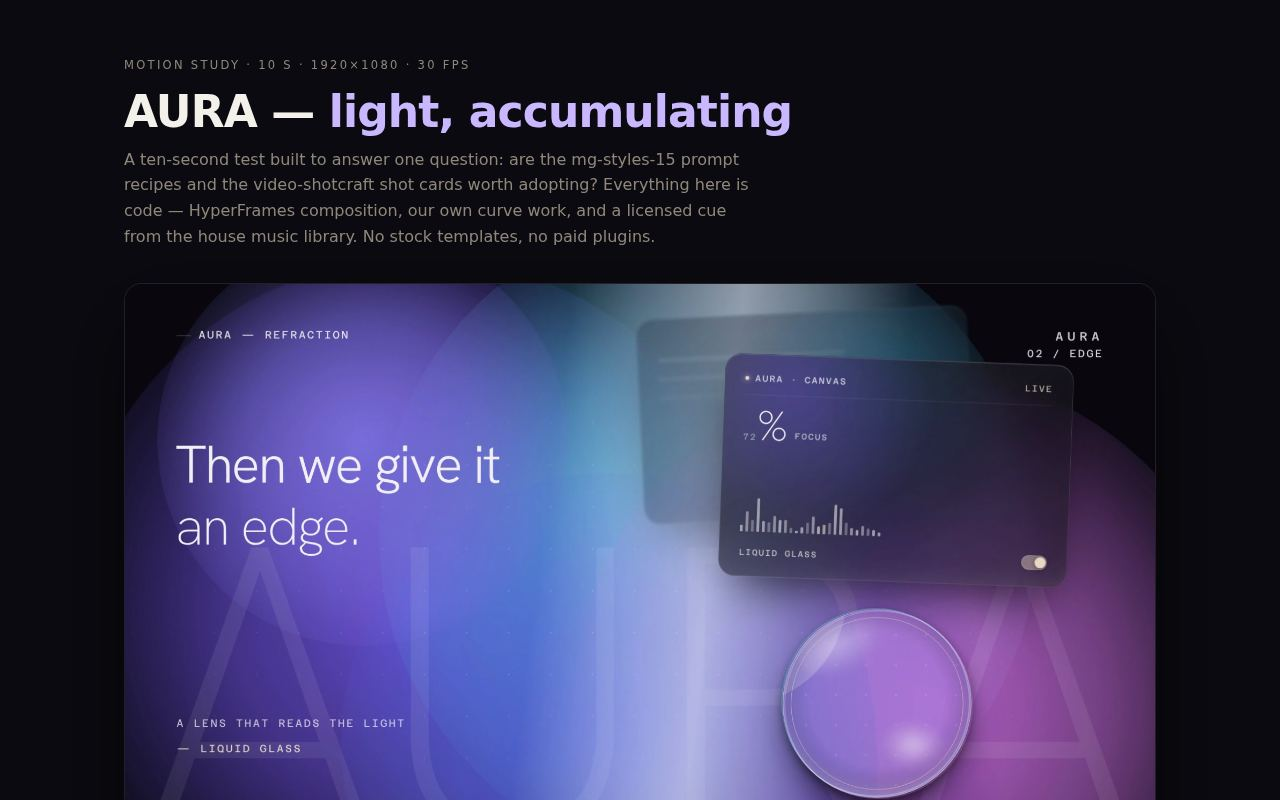
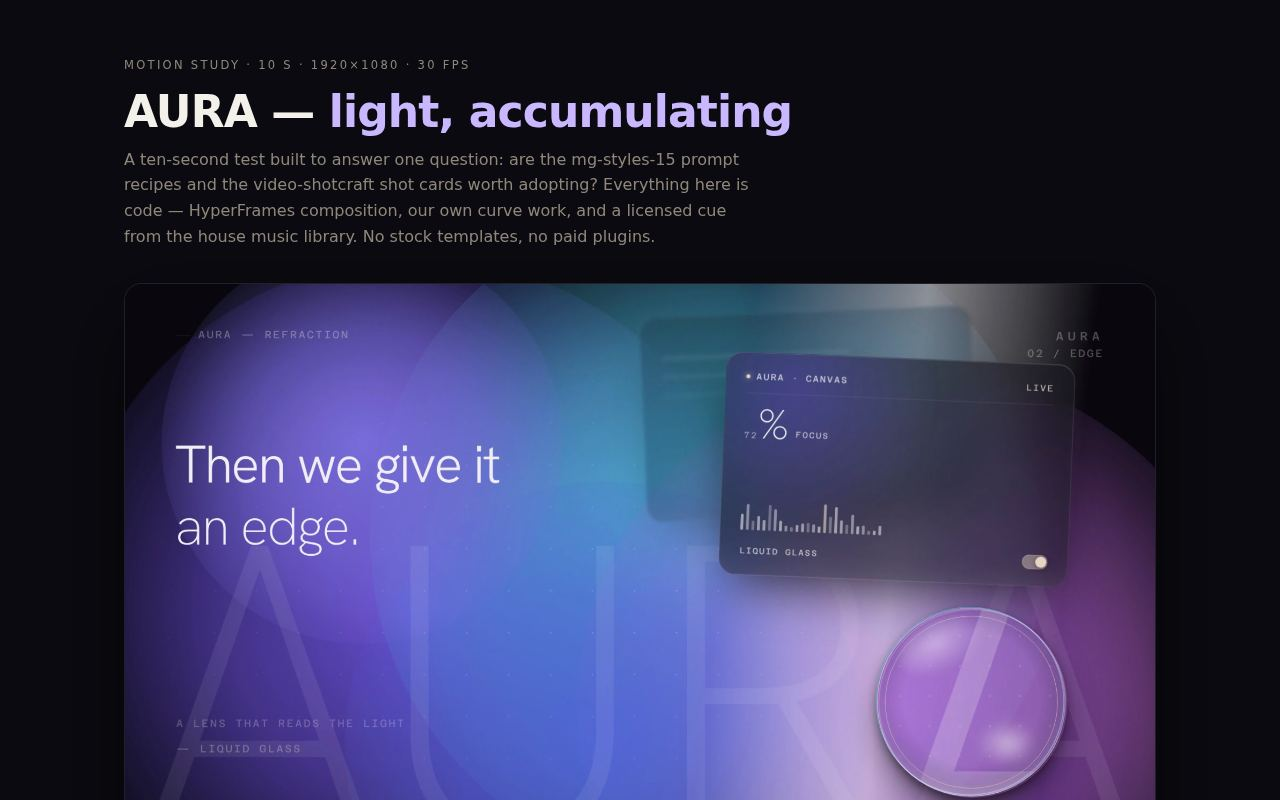
publish

diff --git a/index.html b/index.html
@@ -14,4 +14,4 @@ nav{display:flex;flex-wrap:wrap;gap:8px}nav a{color:var(--fg);text-decoration:no
 nav a:hover{border-color:var(--acc);color:var(--acc)}nav a.repo{color:var(--mute)}footer{color:var(--mute);text-align:center;padding:0 16px 40px;font-size:13px}
 </style></head><body>
 <header><h1>Hermes<br>Gallery</h1><p>Everything Hermes has shipped, with live links. Rebuilt automatically from the project registry every hour, so it's always current.</p></header>
-<main><article><a class="shot" href="https://nd96-8d938128.nip.io/host"><img loading="lazy" src="thumbs/nd96.jpg" alt="ND96 — National Day game (Asir) screenshot"></a><div class="meta"><h2>ND96 — National Day game (Asir)</h2><p>Asir driving update LIVE, deployed 985675f: 7.27 km circuit (2.33x), continuous ribbon presentation, responsive solo TAP/HOLD, angle-sensitive wall losses and stronger boost. Map art/approved car preserved; scores/history and join code 6520 retained. Three-map cold/warm starts, nine transitions and failure/timeout/retry/cancel/refresh coverage verified. Human feel and hardware rehearsal remain unverified.</p><nav><a href="https://nd96-8d938128.nip.io/host">Host ↗</a><a href="https://nd96-8d938128.nip.io/play">Play ↗</a></nav></div></article><article><a class="shot" href="https://beginners-photographs-comfortable-eyes.trycloudflare.com/ar"><img loading="lazy" src="thumbs/itlala.jpg" alt="إطلالة Itlala — AI personal shopper screenshot"></a><div class="meta"><h2>إطلالة Itlala — AI personal shopper</h2><p>Phone UI pass 2 LIVE (2026-10-21 PM): flat-lay is a scrollable stack (every piece visible), outfit sheet shows the whole figure, no read-more, no links in the chat, abaya can never be answered with a dress, palette measured from the garments (5 looks), redone phone composer, sheet motion.</p><nav><a href="https://beginners-photographs-comfortable-eyes.trycloudflare.com/ar">Demo (tunnel, follows rotation) ↗</a><a class="repo" href="https://github.com/Mkj-ai/ai-personal-shopper">repo</a></nav></div></article><article><a class="shot" href="https://hermesalfredguy.github.io/aura-motion-study/"><img loading="lazy" src="thumbs/aura-motion-study.jpg" alt="AURA — 10 s motion study testing mg-styles-15 + video-shotcraft screenshot"></a><div class="meta"><h2>AURA — 10 s motion study testing mg-styles-15 + video-shotcraft</h2><p>delivered — motion gate 3.14, contrast pass (5 -&gt; 1 warning, intended fade)</p><nav><a href="https://hermesalfredguy.github.io/aura-motion-study/">Film page ↗</a><a class="repo" href="https://github.com/HermesAlfredGuy/aura-motion-study">repo</a></nav></div></article><article><a class="shot" href="https://hermesalfredguy.github.io/afterlight-20261018/"><img loading="lazy" src="thumbs/afterlight.jpg" alt="Afterlight — DeepSeek Creative Lab screenshot"></a><div class="meta"><h2>Afterlight — DeepSeek Creative Lab</h2><p>Paused by the owner (2026-10-20). Pass-3 graphics work stopped part-way; edits left uncommitted in the workspace.</p><nav><a href="https://hermesalfredguy.github.io/afterlight-20261018/">Site ↗</a><a class="repo" href="https://github.com/HermesAlfredGuy/afterlight-20261018">repo</a></nav></div></article><article><a class="shot" href="https://hermesalfredguy.github.io/dallah/"><img loading="lazy" src="thumbs/dallah-img2threejs.jpg" alt="Brass dallah — one photograph to procedural Three.js screenshot"></a><div class="meta"><h2>Brass dallah — one photograph to procedural Three.js</h2><p>delivered — 6 correction passes, structural pass unlocked, generator bugs fixed</p><nav><a href="https://hermesalfredguy.github.io/dallah/">Live model ↗</a><a class="repo" href="https://github.com/HermesAlfredGuy/dallah">repo</a></nav></div></article><article><a class="shot" href="https://hermesalfredguy.github.io/ember-run/"><img loading="lazy" src="thumbs/ember-run.jpg" alt="Ember Run — browser game screenshot"></a><div class="meta"><h2>Ember Run — browser game</h2><p>Live demo.</p><nav><a href="https://hermesalfredguy.github.io/ember-run/">Play ↗</a><a class="repo" href="https://github.com/HermesAlfredGuy/ember-run">repo</a></nav></div></article><article><a class="shot" href="https://hermesalfredguy.github.io/hermes-studio/"><img loading="lazy" src="thumbs/studio.jpg" alt="Hermes Studio — tooling &amp; kits screenshot"></a><div class="meta"><h2>Hermes Studio — tooling &amp; kits</h2><p>Kits: web-editorial, game-three, motion (brand-opener, anthem). New: one-take voiceover + beat warp (anthem motion 5.95 vs Oddfellows 6.1), motion gate, a11y/contrast gate in web QA. Hermes film tests: 6/10 → 6.5/10. Motion retrofit 20 Oct: full motion forced always (no OS reduced-motion checks, no toggle), live + QA ok.</p><nav><a href="https://hermesalfredguy.github.io/hermes-studio/">Studio site ↗</a><a href="https://hermesalfredguy.github.io/tidework-studio/">TIDEWORK site ↗</a><a href="https://hermesalfredguy.github.io/ember-run/">Ember Run game ↗</a><a class="repo" href="https://github.com/HermesAlfredGuy/hermes-studio">repo</a></nav></div></article><article><a class="shot" href="https://hermesalfredguy.github.io/ledgerline-launch-clip/"><img loading="lazy" src="thumbs/ledgerline-launch-clip.jpg" alt="Ledgerline — 20 s square launch clip, drawn in code screenshot"></a><div class="meta"><h2>Ledgerline — 20 s square launch clip, drawn in code</h2><p>2026-10-22: remade from the motion-dead original. Motion 0.61 -&gt; 5.00 median (gate 2.5), 19 dead seconds -&gt; 0, -14.1 LUFS, 54 named techniques in TIMELINE.md, page with a 37-beat transcript. REVIEW GATE FAILED: four independent rounds scored 8.0 / 7.7 / 8.1 / 7.6 (gate 8.5), zero blockers; round budget exhausted. Open: the sheet-to-cards change is a cut not a fold, and the 8.1 s swap is off the beat.</p><nav><a href="https://hermesalfredguy.github.io/ledgerline-launch-clip/">Proof page ↗</a><a class="repo" href="https://github.com/HermesAlfredGuy/ledgerline-launch-clip">repo</a></nav></div></article><article><a class="shot" href="http://192.168.100.120:9520/host"><img loading="lazy" src="thumbs/majlis-party.jpg" alt="Majlis Party v2 (مجلس بارتي) — standalone projector party game, two teams screenshot"></a><div class="meta"><h2>Majlis Party v2 (مجلس بارتي) — standalone projector party game, two teams</h2><p>v2 live; independent design review not passed after 4 rounds (6.5, 5.5, 5.0, 5.5 vs 8.5 bar); rounds exhausted</p><nav><a href="http://192.168.100.120:9520/host">Live ↗</a><a href="https://ethernet-temperatures-follow-oak.trycloudflare.com/host">Live ↗</a><a class="repo" href="https://github.com/HermesAlfredGuy/majlis-party">repo</a></nav></div></article><article><a class="shot" href="https://hermesalfredguy.github.io/qahwa-lab/"><img loading="lazy" src="thumbs/qahwa-lab.jpg" alt="Qahwa Lab — Khawlani coffee, roasted in Al Khobar screenshot"></a><div class="meta"><h2>Qahwa Lab — Khawlani coffee, roasted in Al Khobar</h2><p>Live (2026-10-22): scroll-roasts a procedural 3D Khawlani bean through a real roast log (200 °C charge → 212 °C drop), contour-map provenance section, hand-drawn roast profile, swipeable lot rail. Mobile-first.</p><nav><a href="https://hermesalfredguy.github.io/qahwa-lab/">GitHub Pages ↗</a><a class="repo" href="https://github.com/HermesAlfredGuy/qahwa-lab">repo</a></nav></div></article><article><a class="shot" href="https://hermesalfredguy.github.io/saqr/"><img loading="lazy" src="thumbs/saqr.jpg" alt="SAQR — falcon over Asir screenshot"></a><div class="meta"><h2>SAQR — falcon over Asir</h2><p>Shipped 2026-10-22: one-thumb 3D flight game over the Asir escarpment at last light — thermal riding, near-miss bonuses, real rock collisions. Verified on a 390×844 phone viewport, 27.8 s gameplay capture with the game&#x27;s own audio.</p><nav><a href="https://hermesalfredguy.github.io/saqr/">Live ↗</a><a class="repo" href="https://github.com/HermesAlfredGuy/saqr">repo</a></nav></div></article><article><a class="shot" href="https://hermesalfredguy.github.io/softmax-reward-model-music-video/?video=1"><img loading="lazy" src="thumbs/softmax-music-video.jpg" alt="SOFTMAX — Reward Model, kinetic lyric music video screenshot"></a><div class="meta"><h2>SOFTMAX — Reward Model, kinetic lyric music video</h2><p>Delivered: complete 3:12 film, native 1920x1080 at 60 fps (11520 frames), 71 typographic cues. Preferred original recording preserved. Final export and public MP4 ranges verified; Telegram delivery 17453.</p><nav><a href="https://hermesalfredguy.github.io/softmax-reward-model-music-video/?video=1">Watch / download ↗</a><a class="repo" href="https://github.com/HermesAlfredGuy/softmax-reward-model-music-video">repo</a></nav></div></article><article><a class="shot" href="https://hermesalfredguy.github.io/sonde/"><img loading="lazy" src="thumbs/sonde.jpg" alt="Sonde — database agent for oil and gas screenshot"></a><div class="meta"><h2>Sonde — database agent for oil and gas</h2><p>live — disclosure section now carries a live procedural 3D core sample</p><nav><a href="https://hermesalfredguy.github.io/sonde/">Live ↗</a><a class="repo" href="https://github.com/HermesAlfredGuy/sonde">repo</a></nav></div></article><article><a class="shot" href="https://hermesalfredguy.github.io/handheld-oneshot-test/"><img loading="lazy" src="thumbs/handheld-oneshot-test.jpg" alt="TOCK &amp; friends — handheld launch-site test screenshot"></a><div class="meta"><h2>TOCK &amp; friends — handheld launch-site test</h2><p>4 one-shot pages (DeepSeek/MiniMax, raw/brief/auto-brief).</p><nav><a href="https://hermesalfredguy.github.io/handheld-oneshot-test/">Gallery ↗</a><a href="https://hermesalfredguy.github.io/handheld-oneshot-test/deepseek-auto/">TOCK ↗</a><a class="repo" href="https://github.com/HermesAlfredGuy/handheld-oneshot-test">repo</a></nav></div></article><article><a class="shot" href="https://hermesalfredguy.github.io/really-high-quality-animated/"><img loading="lazy" src="thumbs/little-lighthouse.jpg" alt="The Little Lighthouse — 50 s hand-inked cel film, drawn in code screenshot"></a><div class="meta"><h2>The Little Lighthouse — 50 s hand-inked cel film, drawn in code</h2><p>delivered — 4 independent review rounds, gate not passed (film 7/10 r4, page 8.0 r3)</p><nav><a href="https://hermesalfredguy.github.io/really-high-quality-animated/">Film page ↗</a><a class="repo" href="https://github.com/HermesAlfredGuy/really-high-quality-animated">repo</a></nav></div></article><article><a class="shot" href="https://hermesalfredguy.github.io/tidework-studio/"><img loading="lazy" src="thumbs/tidework-studio.jpg" alt="Tidework — brand studio site screenshot"></a><div class="meta"><h2>Tidework — brand studio site</h2><p>Live.</p><nav><a href="https://hermesalfredguy.github.io/tidework-studio/">Site ↗</a><a class="repo" href="https://github.com/HermesAlfredGuy/tidework-studio">repo</a></nav></div></article><article><a class="shot" href="https://hermesalfredguy.github.io/tomo-01/"><img loading="lazy" src="thumbs/tomo-01.jpg" alt="Tomo-01 — handheld launch site screenshot"></a><div class="meta"><h2>Tomo-01 — handheld launch site</h2><p>Live. Paper-catalogue launch page for a fictional two-screen handheld: bespoke Three.js device (hinge opens on scroll 0-113 deg, two live canvas LCDs), Pebble Garden playable in the page, opt-in synthesised sound, colour studio. Press loop 20s 16:9 + social cut 15s 9:16, both passing the film motion gate. studio-qa green (0 axe, 0 errors, 0 overflow, 0 small tap targets); mobile nav-clearance and anchor scroll-padding fixed after a rubric critique pass (7.1 -&gt; 7.7). Phone pass 2026-10-21: the fixed WebGL canvas now places the device in reserved document-flow bands solved from the measured rect, so nothing can sit under it; 0 text/device overlaps at 390x844 and 360x780, 0 tap targets under 44px, 0 body copy under 15px, playable console in one viewport, desktop layout unchanged (28/29 measured fields identical to the pre-change build).</p><nav><a href="https://hermesalfredguy.github.io/tomo-01/">Live site ↗</a><a class="repo" href="https://github.com/HermesAlfredGuy/tomo-01">repo</a></nav></div></article><article><a class="shot" href="https://hermesalfredguy.github.io/vesper-website-20261018/"><img loading="lazy" src="thumbs/vesper.jpg" alt="Vesper — DeepSeek Web Lab screenshot"></a><div class="meta"><h2>Vesper — DeepSeek Web Lab</h2><p>Site published; lamp object + film (pass 3).</p><nav><a href="https://hermesalfredguy.github.io/vesper-website-20261018/">Site ↗</a><a class="repo" href="https://github.com/HermesAlfredGuy/vesper-website-20261018">repo</a></nav></div></article><article><a class="shot" href="https://kayak-8d938128.nip.io/host"><img loading="lazy" src="thumbs/kayak-game.jpg" alt="Wadi Paddle — ND96 kayak race screenshot"></a><div class="meta"><h2>Wadi Paddle — ND96 kayak race</h2><p>Pass II «تجديف الوادي» live on the Oracle VM: verify event 55 OK, npm test 95/0, live round completed 15 Oct. Motion retrofit 20 Oct live: full motion forced always, no toggle, QA ok.</p><nav><a href="https://kayak-8d938128.nip.io/host">Host screen ↗</a><a href="https://kayak-8d938128.nip.io/play">Play (phone) ↗</a></nav></div></article></main><footer>Updated 2026-10-31 12:00 UTC</footer></body></html>
+<main><article><a class="shot" href="https://nd96-8d938128.nip.io/host"><img loading="lazy" src="thumbs/nd96.jpg" alt="ND96 — National Day game (Asir) screenshot"></a><div class="meta"><h2>ND96 — National Day game (Asir)</h2><p>Asir driving update LIVE, deployed 985675f: 7.27 km circuit (2.33x), continuous ribbon presentation, responsive solo TAP/HOLD, angle-sensitive wall losses and stronger boost. Map art/approved car preserved; scores/history and join code 6520 retained. Three-map cold/warm starts, nine transitions and failure/timeout/retry/cancel/refresh coverage verified. Human feel and hardware rehearsal remain unverified.</p><nav><a href="https://nd96-8d938128.nip.io/host">Host ↗</a><a href="https://nd96-8d938128.nip.io/play">Play ↗</a></nav></div></article><article><a class="shot" href="https://beginners-photographs-comfortable-eyes.trycloudflare.com/ar"><img loading="lazy" src="thumbs/itlala.jpg" alt="إطلالة Itlala — AI personal shopper screenshot"></a><div class="meta"><h2>إطلالة Itlala — AI personal shopper</h2><p>Phone UI pass 2 LIVE (2026-10-21 PM): flat-lay is a scrollable stack (every piece visible), outfit sheet shows the whole figure, no read-more, no links in the chat, abaya can never be answered with a dress, palette measured from the garments (5 looks), redone phone composer, sheet motion.</p><nav><a href="https://beginners-photographs-comfortable-eyes.trycloudflare.com/ar">Demo (tunnel, follows rotation) ↗</a><a class="repo" href="https://github.com/Mkj-ai/ai-personal-shopper">repo</a></nav></div></article><article><a class="shot" href="https://hermesalfredguy.github.io/aura-motion-study/"><img loading="lazy" src="thumbs/aura-motion-study.jpg" alt="AURA — 10 s motion study testing mg-styles-15 + video-shotcraft screenshot"></a><div class="meta"><h2>AURA — 10 s motion study testing mg-styles-15 + video-shotcraft</h2><p>delivered — motion gate 3.14, contrast pass (5 -&gt; 1 warning, intended fade)</p><nav><a href="https://hermesalfredguy.github.io/aura-motion-study/">Film page ↗</a><a class="repo" href="https://github.com/HermesAlfredGuy/aura-motion-study">repo</a></nav></div></article><article><a class="shot" href="https://hermesalfredguy.github.io/afterlight-20261018/"><img loading="lazy" src="thumbs/afterlight.jpg" alt="Afterlight — DeepSeek Creative Lab screenshot"></a><div class="meta"><h2>Afterlight — DeepSeek Creative Lab</h2><p>Paused by the owner (2026-10-20). Pass-3 graphics work stopped part-way; edits left uncommitted in the workspace.</p><nav><a href="https://hermesalfredguy.github.io/afterlight-20261018/">Site ↗</a><a class="repo" href="https://github.com/HermesAlfredGuy/afterlight-20261018">repo</a></nav></div></article><article><a class="shot" href="https://hermesalfredguy.github.io/dallah/"><img loading="lazy" src="thumbs/dallah-img2threejs.jpg" alt="Brass dallah — one photograph to procedural Three.js screenshot"></a><div class="meta"><h2>Brass dallah — one photograph to procedural Three.js</h2><p>delivered — 6 correction passes, structural pass unlocked, generator bugs fixed</p><nav><a href="https://hermesalfredguy.github.io/dallah/">Live model ↗</a><a class="repo" href="https://github.com/HermesAlfredGuy/dallah">repo</a></nav></div></article><article><a class="shot" href="https://hermesalfredguy.github.io/ember-run/"><img loading="lazy" src="thumbs/ember-run.jpg" alt="Ember Run — browser game screenshot"></a><div class="meta"><h2>Ember Run — browser game</h2><p>Live demo.</p><nav><a href="https://hermesalfredguy.github.io/ember-run/">Play ↗</a><a class="repo" href="https://github.com/HermesAlfredGuy/ember-run">repo</a></nav></div></article><article><a class="shot" href="https://hermesalfredguy.github.io/hermes-studio/"><img loading="lazy" src="thumbs/studio.jpg" alt="Hermes Studio — tooling &amp; kits screenshot"></a><div class="meta"><h2>Hermes Studio — tooling &amp; kits</h2><p>Kits: web-editorial, game-three, motion (brand-opener, anthem). New: one-take voiceover + beat warp (anthem motion 5.95 vs Oddfellows 6.1), motion gate, a11y/contrast gate in web QA. Hermes film tests: 6/10 → 6.5/10. Motion retrofit 20 Oct: full motion forced always (no OS reduced-motion checks, no toggle), live + QA ok.</p><nav><a href="https://hermesalfredguy.github.io/hermes-studio/">Studio site ↗</a><a href="https://hermesalfredguy.github.io/tidework-studio/">TIDEWORK site ↗</a><a href="https://hermesalfredguy.github.io/ember-run/">Ember Run game ↗</a><a class="repo" href="https://github.com/HermesAlfredGuy/hermes-studio">repo</a></nav></div></article><article><a class="shot" href="https://hermesalfredguy.github.io/ledgerline-launch-clip/"><img loading="lazy" src="thumbs/ledgerline-launch-clip.jpg" alt="Ledgerline — 20 s square launch clip, drawn in code screenshot"></a><div class="meta"><h2>Ledgerline — 20 s square launch clip, drawn in code</h2><p>2026-10-22: remade from the motion-dead original. Motion 0.61 -&gt; 5.00 median (gate 2.5), 19 dead seconds -&gt; 0, -14.1 LUFS, 54 named techniques in TIMELINE.md, page with a 37-beat transcript. REVIEW GATE FAILED: four independent rounds scored 8.0 / 7.7 / 8.1 / 7.6 (gate 8.5), zero blockers; round budget exhausted. Open: the sheet-to-cards change is a cut not a fold, and the 8.1 s swap is off the beat.</p><nav><a href="https://hermesalfredguy.github.io/ledgerline-launch-clip/">Proof page ↗</a><a class="repo" href="https://github.com/HermesAlfredGuy/ledgerline-launch-clip">repo</a></nav></div></article><article><a class="shot" href="http://192.168.100.120:9520/host"><img loading="lazy" src="thumbs/majlis-party.jpg" alt="Majlis Party v2 (مجلس بارتي) — standalone projector party game, two teams screenshot"></a><div class="meta"><h2>Majlis Party v2 (مجلس بارتي) — standalone projector party game, two teams</h2><p>v2 live; independent design review not passed after 4 rounds (6.5, 5.5, 5.0, 5.5 vs 8.5 bar); rounds exhausted</p><nav><a href="http://192.168.100.120:9520/host">Live ↗</a><a href="https://ethernet-temperatures-follow-oak.trycloudflare.com/host">Live ↗</a><a class="repo" href="https://github.com/HermesAlfredGuy/majlis-party">repo</a></nav></div></article><article><a class="shot" href="https://hermesalfredguy.github.io/qahwa-lab/"><img loading="lazy" src="thumbs/qahwa-lab.jpg" alt="Qahwa Lab — Khawlani coffee, roasted in Al Khobar screenshot"></a><div class="meta"><h2>Qahwa Lab — Khawlani coffee, roasted in Al Khobar</h2><p>Live (2026-10-22): scroll-roasts a procedural 3D Khawlani bean through a real roast log (200 °C charge → 212 °C drop), contour-map provenance section, hand-drawn roast profile, swipeable lot rail. Mobile-first.</p><nav><a href="https://hermesalfredguy.github.io/qahwa-lab/">GitHub Pages ↗</a><a class="repo" href="https://github.com/HermesAlfredGuy/qahwa-lab">repo</a></nav></div></article><article><a class="shot" href="https://hermesalfredguy.github.io/saqr/"><img loading="lazy" src="thumbs/saqr.jpg" alt="SAQR — falcon over Asir screenshot"></a><div class="meta"><h2>SAQR — falcon over Asir</h2><p>Shipped 2026-10-22: one-thumb 3D flight game over the Asir escarpment at last light — thermal riding, near-miss bonuses, real rock collisions. Verified on a 390×844 phone viewport, 27.8 s gameplay capture with the game&#x27;s own audio.</p><nav><a href="https://hermesalfredguy.github.io/saqr/">Live ↗</a><a class="repo" href="https://github.com/HermesAlfredGuy/saqr">repo</a></nav></div></article><article><a class="shot" href="https://hermesalfredguy.github.io/softmax-reward-model-music-video/?video=1"><img loading="lazy" src="thumbs/softmax-music-video.jpg" alt="SOFTMAX — Reward Model, kinetic lyric music video screenshot"></a><div class="meta"><h2>SOFTMAX — Reward Model, kinetic lyric music video</h2><p>Delivered: complete 3:12 film, native 1920x1080 at 60 fps (11520 frames), 71 typographic cues. Preferred original recording preserved. Final export and public MP4 ranges verified; Telegram delivery 17453.</p><nav><a href="https://hermesalfredguy.github.io/softmax-reward-model-music-video/?video=1">Watch / download ↗</a><a class="repo" href="https://github.com/HermesAlfredGuy/softmax-reward-model-music-video">repo</a></nav></div></article><article><a class="shot" href="https://hermesalfredguy.github.io/sonde/"><img loading="lazy" src="thumbs/sonde.jpg" alt="Sonde — database agent for oil and gas screenshot"></a><div class="meta"><h2>Sonde — database agent for oil and gas</h2><p>live — disclosure section now carries a live procedural 3D core sample</p><nav><a href="https://hermesalfredguy.github.io/sonde/">Live ↗</a><a class="repo" href="https://github.com/HermesAlfredGuy/sonde">repo</a></nav></div></article><article><a class="shot" href="https://hermesalfredguy.github.io/handheld-oneshot-test/"><img loading="lazy" src="thumbs/handheld-oneshot-test.jpg" alt="TOCK &amp; friends — handheld launch-site test screenshot"></a><div class="meta"><h2>TOCK &amp; friends — handheld launch-site test</h2><p>4 one-shot pages (DeepSeek/MiniMax, raw/brief/auto-brief).</p><nav><a href="https://hermesalfredguy.github.io/handheld-oneshot-test/">Gallery ↗</a><a href="https://hermesalfredguy.github.io/handheld-oneshot-test/deepseek-auto/">TOCK ↗</a><a class="repo" href="https://github.com/HermesAlfredGuy/handheld-oneshot-test">repo</a></nav></div></article><article><a class="shot" href="https://hermesalfredguy.github.io/really-high-quality-animated/"><img loading="lazy" src="thumbs/little-lighthouse.jpg" alt="The Little Lighthouse — 50 s hand-inked cel film, drawn in code screenshot"></a><div class="meta"><h2>The Little Lighthouse — 50 s hand-inked cel film, drawn in code</h2><p>delivered — 4 independent review rounds, gate not passed (film 7/10 r4, page 8.0 r3)</p><nav><a href="https://hermesalfredguy.github.io/really-high-quality-animated/">Film page ↗</a><a class="repo" href="https://github.com/HermesAlfredGuy/really-high-quality-animated">repo</a></nav></div></article><article><a class="shot" href="https://hermesalfredguy.github.io/tidework-studio/"><img loading="lazy" src="thumbs/tidework-studio.jpg" alt="Tidework — brand studio site screenshot"></a><div class="meta"><h2>Tidework — brand studio site</h2><p>Live.</p><nav><a href="https://hermesalfredguy.github.io/tidework-studio/">Site ↗</a><a class="repo" href="https://github.com/HermesAlfredGuy/tidework-studio">repo</a></nav></div></article><article><a class="shot" href="https://hermesalfredguy.github.io/tomo-01/"><img loading="lazy" src="thumbs/tomo-01.jpg" alt="Tomo-01 — handheld launch site screenshot"></a><div class="meta"><h2>Tomo-01 — handheld launch site</h2><p>Live. Paper-catalogue launch page for a fictional two-screen handheld: bespoke Three.js device (hinge opens on scroll 0-113 deg, two live canvas LCDs), Pebble Garden playable in the page, opt-in synthesised sound, colour studio. Press loop 20s 16:9 + social cut 15s 9:16, both passing the film motion gate. studio-qa green (0 axe, 0 errors, 0 overflow, 0 small tap targets); mobile nav-clearance and anchor scroll-padding fixed after a rubric critique pass (7.1 -&gt; 7.7). Phone pass 2026-10-21: the fixed WebGL canvas now places the device in reserved document-flow bands solved from the measured rect, so nothing can sit under it; 0 text/device overlaps at 390x844 and 360x780, 0 tap targets under 44px, 0 body copy under 15px, playable console in one viewport, desktop layout unchanged (28/29 measured fields identical to the pre-change build).</p><nav><a href="https://hermesalfredguy.github.io/tomo-01/">Live site ↗</a><a class="repo" href="https://github.com/HermesAlfredGuy/tomo-01">repo</a></nav></div></article><article><a class="shot" href="https://hermesalfredguy.github.io/vesper-website-20261018/"><img loading="lazy" src="thumbs/vesper.jpg" alt="Vesper — DeepSeek Web Lab screenshot"></a><div class="meta"><h2>Vesper — DeepSeek Web Lab</h2><p>Site published; lamp object + film (pass 3).</p><nav><a href="https://hermesalfredguy.github.io/vesper-website-20261018/">Site ↗</a><a class="repo" href="https://github.com/HermesAlfredGuy/vesper-website-20261018">repo</a></nav></div></article><article><a class="shot" href="https://kayak-8d938128.nip.io/host"><img loading="lazy" src="thumbs/kayak-game.jpg" alt="Wadi Paddle — ND96 kayak race screenshot"></a><div class="meta"><h2>Wadi Paddle — ND96 kayak race</h2><p>Pass II «تجديف الوادي» live on the Oracle VM: verify event 55 OK, npm test 95/0, live round completed 15 Oct. Motion retrofit 20 Oct live: full motion forced always, no toggle, QA ok.</p><nav><a href="https://kayak-8d938128.nip.io/host">Host screen ↗</a><a href="https://kayak-8d938128.nip.io/play">Play (phone) ↗</a></nav></div></article></main><footer>Updated 2026-10-31 13:02 UTC</footer></body></html>
